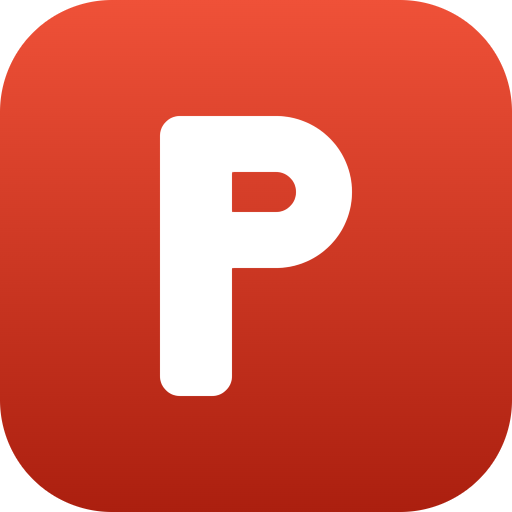
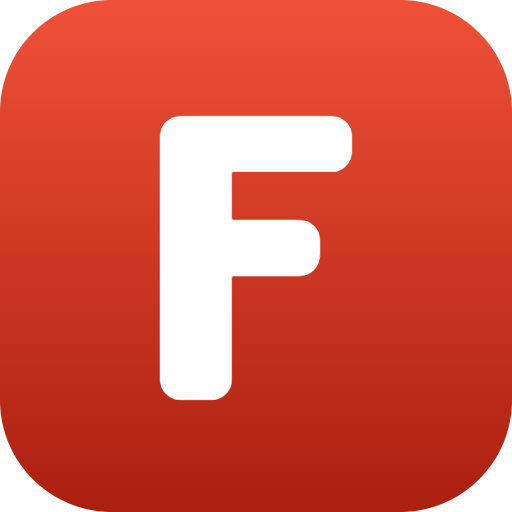
Rename the app to Folio, with a matching F mark
A folio is a leaf of a page, which fits an app for editing and
organizing documents better than "PDF Maker" did. The old name was also
a category rather than a name: unsearchable, undefendable, and taken by
Adobe's own Acrobat PDFMaker add-in.

The icon keeps the red tile and gradient and swaps the letter for a bold
geometric F of the same weight. A variant with a folded top arm read as
a broken arm below 32px, so the plain letter won.

Identity keys deliberately stay as they are, because they are keys and
not labels: the appId, the app:// origin, the IndexedDB and localStorage
names, and the PDFMaker.<verb> registry keys. Changing any of them would
orphan existing installs, saved sessions, signatures or right-click
entries. The two least obvious now say so in a comment.

The user data folder is named after the product, so the rename would
have moved it and silently stranded recent files, open tabs with unsaved
edits, signatures and the theme. The shell now resolves the profile
before app ready: if the new folder holds no profile and the old one
does, it keeps reading the old one, and a fresh install gets the new
name. The check looks at folder contents rather than mere existence, so
an empty folder left behind by a backup tool or a crash cannot strand a
profile, and an explicit --user-data-dir always wins.

Changed region(s): [[0.4375, 0.2188, 0.6875, 0.5], [0.4375, 0.5, 0.625, 0.5625], [0.3125, 0.75, 0.4688, 0.7812]]

diff --git a/src/main.ts b/src/main.ts
@@ -133,7 +133,7 @@ menuPanel.addEventListener('click', (e) => e.stopPropagation());
  * a restart-to-install - still open one.
  */
 const browserNote = h('div', { class: 'menu-note' }, 'Running in a browser');
-const versionLabel = h('span', { class: 'version-name' }, 'PDF Maker');
+const versionLabel = h('span', { class: 'version-name' }, 'Folio');
 const updateBadge = h('span', { class: 'update-badge', hidden: true });
 const updateFill = h('i', { class: 'update-fill' });
 const updateBar = h('div', { class: 'update-bar', hidden: true }, updateFill);
@@ -419,7 +419,7 @@ function route() {
   renderPanel();
   main.replaceChildren();
   main.className = tool?.wide ? 'wide' : '';
-  document.title = label ? `${label} · PDF Maker` : id === 'tools' ? 'All tools · PDF Maker' : 'PDF Maker';
+  document.title = label ? `${label} · Folio` : id === 'tools' ? 'All tools · Folio' : 'Folio';
   renderDocTabs(label ?? (id === 'tools' ? 'All tools' : 'Home'));
   if (!tool) {
     incoming = undefined;
@@ -447,7 +447,7 @@ function renderDocTabs(label: string) {
   docTabs.replaceChildren(h('span', { class: 'doc-tab active' }, h('span', { class: 'doc-tab-name' }, label)));
 }
 
-/* ---------- desktop app: PDFs opened via "Open with PDF Maker" ---------- */
+/* ---------- desktop app: PDFs opened via "Open with Folio" ---------- */
 interface DesktopFile {
   name: string;
   data: Uint8Array;
@@ -518,7 +518,7 @@ if (desktop) {
       browserNote.hidden = true;
       versionLine.hidden = false;
       updateAction.hidden = false;
-      versionLabel.textContent = `PDF Maker ${info.version}`;
+      versionLabel.textContent = `Folio ${info.version}`;
 
       const badge = badges[s.state];
       updateBadge.hidden = !badge;
@@ -551,7 +551,7 @@ if (desktop) {
 
       // The ribbon button appears only when there is something to do.
       const pill =
-        s.state === 'ready' ? ['ready', `Restart to update${s.version ? ` to ${s.version}` : ''}`, 'Installs the update and reopens PDF Maker']
+        s.state === 'ready' ? ['ready', `Restart to update${s.version ? ` to ${s.version}` : ''}`, 'Installs the update and reopens Folio']
         : s.state === 'downloading' ? ['busy', s.percent ? `Updating ${s.percent}%` : 'Downloading…', 'Downloading the update']
         : s.state === 'available' ? ['news', `Update to ${s.version ?? 'the new version'}`, info.portable ? 'Opens the download page' : 'Downloads the update now']
         : null;
@@ -602,7 +602,7 @@ if (desktop) {
           ? `“${names[0]}” has edits that haven’t been saved to a PDF yet.`
           : `${names.length} documents have edits that haven’t been saved to a PDF yet.`,
       items: names.length > 1 ? names : undefined,
-      detail: 'Closing PDF Maker now loses them.',
+      detail: 'Closing Folio now loses them.',
       confirm: 'Close anyway',
       cancel: 'Keep editing',
     });

diff --git a/src/home.ts b/src/home.ts
@@ -63,7 +63,7 @@ export function renderHome(ctx: AppContext, tools: Tool[]) {
     h(
       'header',
       { class: 'home-head' },
-      h('h1', null, 'Welcome to PDF Maker'),
+      h('h1', null, 'Welcome to Folio'),
       h('p', { class: 'muted' }, 'Edit, sign, convert and organize PDFs. Everything stays on this computer.'),
     ),
     h(
@@ -190,7 +190,7 @@ export function renderAllTools(tools: Tool[]) {
   );
 }
 
-/** Add or remove the "Convert to PDF with PDF Maker" entries in File Explorer. */
+/** Add or remove the "Convert to PDF with Folio" entries in File Explorer. */
 function explorerPanel() {
   const el = h('section', { class: 'explorer-panel', hidden: true });
   if (!shellIntegration) return el;
@@ -201,7 +201,7 @@ function explorerPanel() {
   const paint = () => {
     status.textContent = registered
       ? 'Right-click a file in File Explorer to convert, edit, merge or compress it.'
-      : 'Add entries like "Convert to PDF with PDF Maker" to the File Explorer right-click menu.';
+      : 'Add entries like "Convert to PDF with Folio" to the File Explorer right-click menu.';
     action.replaceChildren(h('span', null, registered ? 'Remove from File Explorer' : 'Add to File Explorer'));
     action.className = `btn ${registered ? 'default' : 'primary'}`;
   };

diff --git a/src/lib/catalog.ts b/src/lib/catalog.ts
@@ -34,7 +34,7 @@ import {
 
 /**
  * The "All tools" list, named the way Acrobat names things so the panel reads
- * the same. Entries with a `tool` open one of PDF Maker's own tools. Entries
+ * the same. Entries with a `tool` open one of Folio's own tools. Entries
  * with a `status` are listed so the panel is complete, but say plainly that
  * they do not work yet and why.
  */
@@ -42,7 +42,7 @@ export interface CatalogEntry {
   label: string;
   icon: IconNode;
   color: string;
-  /** Id of the PDF Maker tool this opens. */
+  /** Id of the Folio tool this opens. */
   tool?: string;
   /** Hash to open instead of a tool id, for entries that need a specific mode. */
   hash?: string;
@@ -170,7 +170,7 @@ export const CATALOG: CatalogEntry[] = [
     more: true,
   },
 
-  // PDF Maker tools that Acrobat has no matching entry for.
+  // Folio tools that Acrobat has no matching entry for.
   { label: 'Split a PDF', icon: Scissors, color: '#db2777', tool: 'split', more: true },
   { label: 'Add page numbers', icon: Hash, color: '#d97706', tool: 'page-numbers', more: true },
   { label: 'Images to PDF', icon: Images, color: '#0891b2', tool: 'images-to-pdf', more: true },

diff --git a/electron/splash.html b/electron/splash.html
@@ -3,7 +3,7 @@
   <head>
     <meta charset="UTF-8" />
     <meta http-equiv="Content-Security-Policy" content="default-src 'none'; img-src 'self' data:; style-src 'unsafe-inline'; script-src 'self'" />
-    <title>PDF Maker</title>
+    <title>Folio</title>
     <style>
       :root {
         color-scheme: light;
@@ -128,7 +128,7 @@
       <div class="top">
         <img class="logo" src="icon.png" alt="" />
         <div>
-          <h1>PDF Maker</h1>
+          <h1>Folio</h1>
           <div class="tagline">Edit, sign and convert PDFs, all on your computer</div>
         </div>
       </div>

diff --git a/index.html b/index.html
@@ -5,7 +5,7 @@
     <meta name="viewport" content="width=device-width, initial-scale=1.0" />
     <meta http-equiv="Content-Security-Policy" content="default-src 'self'; script-src 'self' 'wasm-unsafe-eval'; style-src 'self' 'unsafe-inline'; img-src 'self' data: blob:; worker-src 'self' blob:; connect-src 'self' data: blob:; font-src 'self' data:" />
     <link rel="icon" href="./icon.svg" type="image/svg+xml" />
-    <title>PDF Maker</title>
+    <title>Folio</title>
   </head>
   <body>
     <div id="app"></div>

diff --git a/src/lib/layout.ts b/src/lib/layout.ts
@@ -369,8 +369,8 @@ export function imageUrlToPng(src: string): Promise<Uint8Array> {
 export async function blocksToPdf(blocks: Block[], o: LayoutOptions): Promise<Uint8Array> {
   const doc = await PDFDocument.create();
   if (o.title) doc.setTitle(o.title);
-  doc.setProducer('PDF Maker');
-  doc.setCreator('PDF Maker');
+  doc.setProducer('Folio');
+  doc.setCreator('Folio');
   const w = new Writer(doc, o);
   for (const b of blocks) {
     switch (b.kind) {

diff --git a/src/tools/common.ts b/src/tools/common.ts
@@ -47,7 +47,7 @@ export function resultsPanel(ctx: AppContext) {
         ? button(
             'Download all (.zip)',
             async () => {
-              const zip = await withBusy('Zipping…', () => zipOutputs(files, 'pdf-maker-files'));
+              const zip = await withBusy('Zipping…', () => zipOutputs(files, 'folio-files'));
               if (zip) download(zip);
             },
             { icon: FileArchive, kind: 'primary' },

diff --git a/README.md b/README.md
@@ -1,4 +1,4 @@
-# PDF Maker
+# Folio
 
 An all-in-one PDF editor, maker and converter that runs entirely on your computer.
 
@@ -75,8 +75,8 @@ npm run dist:win
 
 This produces, in `release/`:
 
-- `PDF-Maker-<version>-portable.exe`, single file, no install; just run it.
-- `PDF-Maker-<version>-setup.exe`, installer with Start-menu/desktop shortcuts and "Open with PDF Maker" for `.pdf` files.
+- `Folio-<version>-portable.exe`, single file, no install; just run it.
+- `Folio-<version>-setup.exe`, installer with Start-menu/desktop shortcuts and "Open with Folio" for `.pdf` files.
 
 The executables are unsigned, so Windows SmartScreen may show "Windows protected your PC" the first
 time, click **More info → Run anyway**. On launch the app shows a splash window with the logo,
@@ -88,11 +88,11 @@ The desktop app can add entries to the Windows right-click menu:
 
 | Right-click on | Entry | Opens |
 | --- | --- | --- |
-| A PDF | Edit with PDF Maker | the editor |
-| PDFs (several selected) | Merge with PDF Maker | Merge PDFs, files queued |
-| A PDF | Compress with PDF Maker | Compress |
-| Pictures (JPG, PNG, WebP, BMP, GIF, TIFF) | Convert to PDF with PDF Maker | Images to PDF |
-| Word, text, Markdown or HTML | Convert to PDF with PDF Maker | Create PDF, file imported |
+| A PDF | Edit with Folio | the editor |
+| PDFs (several selected) | Merge with Folio | Merge PDFs, files queued |
+| A PDF | Compress with Folio | Compress |
+| Pictures (JPG, PNG, WebP, BMP, GIF, TIFF) | Convert to PDF with Folio | Images to PDF |
+| Word, text, Markdown or HTML | Convert to PDF with Folio | Create PDF, file imported |
 
 The installer sets these up, and the home screen has a **File Explorer menu** panel to add or
 remove them at any time (handy for the portable build). The entries are written under
